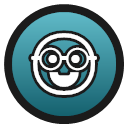
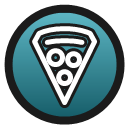
improve josh and tim

diff --git a/SpireBrothersCode/Character/StandIns.cs b/SpireBrothersCode/Character/StandIns.cs
@@ -1,0 +1,89 @@
+using Godot;
+using HarmonyLib;
+using MegaCrit.Sts2.Core.Entities.Players;
+using MegaCrit.Sts2.Core.Nodes.RestSite;
+using MegaCrit.Sts2.Core.Nodes.Rooms;
+using MegaCrit.Sts2.Core.Nodes.Screens.Shops;
+
+namespace SpireBrothers.SpireBrothersCode.Character;
+
+/// <summary>
+/// The shop and rest sites only take a Spine scene per character, so the brothers borrow their vanilla character's
+/// (PlaceholderCharacterModel). These patches keep that scene, so everything it does (thought bubbles, selection,
+/// flipping) still works, but hide its Spine body and stand the brother's own idle animation in its place.
+/// </summary>
+[HarmonyPatch]
+public static class StandIns
+{
+    private const string NodeName = "BrotherStandIn";
+
+    /// <summary>Height in the shop. Combat bodies are 400; tweak if he looks too big or small next to the merchant.</summary>
+    private const float ShopHeight = 400f;
+
+    /// <summary>Rest-site height when the scene has no usable hitbox to measure.</summary>
+    private const float RestSiteHeight = 300f;
+
+    private static readonly AccessTools.FieldRef<NMerchantRoom, List<Player>> Players =
+        AccessTools.FieldRefAccess<NMerchantRoom, List<Player>>("_players");
+
+    private static readonly AccessTools.FieldRef<NMerchantRoom, List<NMerchantCharacter>> PlayerVisuals =
+        AccessTools.FieldRefAccess<NMerchantRoom, List<NMerchantCharacter>>("_playerVisuals");
+
+    // The room builds one character per player, in the same order as its player list.
+    [HarmonyPatch(typeof(NMerchantRoom), nameof(NMerchantRoom._Ready))]
+    [HarmonyPostfix]
+    private static void AfterMerchantRoomReady(NMerchantRoom __instance)
+    {
+        try
+        {
+            var players = Players(__instance);
+            var visuals = PlayerVisuals(__instance);
+            for (int i = 0; i < Math.Min(players.Count, visuals.Count); i++)
+                if (players[i].Character is BrotherCharacter brother) StandIn(visuals[i], brother, ShopHeight);
+        }
+        catch (Exception e)
+        {
+            MainFile.Logger.Error($"Shop stand-in failed: {e}");
+        }
+    }
+
+    [HarmonyPatch(typeof(NRestSiteCharacter), nameof(NRestSiteCharacter._Ready))]
+    [HarmonyPostfix]
+    private static void AfterRestSiteCharacterReady(NRestSiteCharacter __instance)
+    {
+        try
+        {
+            if (__instance.Player?.Character is not BrotherCharacter brother) return;
+            float hitbox = __instance.Hitbox?.Size.Y ?? 0;
+            StandIn(__instance, brother, hitbox > 100 ? hitbox * 0.9f : RestSiteHeight);
+        }
+        catch (Exception e)
+        {
+            MainFile.Logger.Error($"Rest site stand-in failed: {e}");
+        }
+    }
+
+    // Characters on the far side of the campfire are mirrored; mirror ours with them.
+    [HarmonyPatch(typeof(NRestSiteCharacter), nameof(NRestSiteCharacter.FlipX))]
+    [HarmonyPostfix]
+    private static void AfterRestSiteFlip(NRestSiteCharacter __instance)
+    {
+        if (__instance.GetNodeOrNull<Node2D>(NodeName) is not { } sprite) return;
+        sprite.Scale = new Vector2(-sprite.Scale.X, sprite.Scale.Y);
+        sprite.Position = new Vector2(-sprite.Position.X, sprite.Position.Y);
+    }
+
+    private static void StandIn(Node host, BrotherCharacter brother, float height)
+    {
+        var spines = host.GetChildren().OfType<Node2D>().Where(n => n.GetClass() == "SpineSprite").ToList();
+        if (spines.Count == 0 || host.GetNodeOrNull(NodeName) != null) return;
+        if (brother.CreateIdleSprite(height) is not { } sprite) return;
+
+        sprite.Name = NodeName;
+        sprite.Position = spines[0].Position;
+        if (spines[0].Scale.X < 0) sprite.Scale = new Vector2(-sprite.Scale.X, sprite.Scale.Y);
+        foreach (var spine in spines) spine.Visible = false;
+        host.AddChild(sprite);
+        MainFile.Logger.Info($"Stand-in for {brother.Id.Entry} in {host.GetType().Name}: at {sprite.Position}, {height} tall");
+    }
+}

diff --git a/SpireBrothersCode/Mechanics/Archipelago.cs b/SpireBrothersCode/Mechanics/Archipelago.cs
@@ -51,7 +51,7 @@ public static class Archipelago
             if (enemies.Count > 0)
             {
                 var enemy = rng.NextItem(enemies)!;
-                Announce(item, enemy);
+                Announce(item, enemy, owner);
                 await PowerCmd.Apply<WeakPower>(ctx, enemy, 1, owner.Creature, source);
                 await PowerCmd.Apply<VulnerablePower>(ctx, enemy, 1, owner.Creature, source);
                 return;
@@ -62,7 +62,7 @@ public static class Archipelago
         var players = combat.Players.Where(p => p.Creature.IsAlive).Select(p => p.Creature).ToList();
         if (players.Count == 0) return;
         Creature receiver = rng.NextItem(players)!;
-        Announce(item, receiver);
+        Announce(item, receiver, owner);
         switch (item)
         {
             case Item.Filler:
@@ -78,12 +78,19 @@ public static class Archipelago
     }
 
     // A thought bubble over whoever got the item, so everyone can see what was found.
-    private static void Announce(Item item, Creature receiver)
+    // The receiver (or the trapped enemy) says what they got. When it went to someone else, Joshua also says who
+    // he sent it to, so he can tell what his Checks did. Display only, so it never affects co-op sync.
+    private static void Announce(Item item, Creature receiver, Player sender)
     {
         try
         {
             var key = "SPIREBROTHERS-ARCHIPELAGO." + item.ToString().ToLowerInvariant();
             ThinkCmd.Play(new LocString("powers", key), receiver, 1.5);
+            if (receiver == sender.Creature) return;
+            var sent = new LocString("powers", "SPIREBROTHERS-ARCHIPELAGO.sent");
+            sent.Add("Item", new LocString("powers", "SPIREBROTHERS-ARCHIPELAGO.short." + item.ToString().ToLowerInvariant()));
+            sent.Add("Name", receiver.Name);
+            ThinkCmd.Play(sent, sender.Creature, 1.5);
         }
         catch (Exception e)
         {

diff --git a/SpireBrothersCode/Character/BrotherCharacter.cs b/SpireBrothersCode/Character/BrotherCharacter.cs
@@ -96,6 +96,34 @@ public abstract class BrotherCharacter : PlaceholderCharacterModel
         return frames;
     }
 
+    /// <summary>
+    /// A looping idle animation of this brother, feet at the origin, <paramref name="height"/> units tall, for screens
+    /// outside combat (the shop and rest sites; see StandIns). Null if he has no frames/ yet.
+    /// </summary>
+    public AnimatedSprite2D? CreateIdleSprite(float height)
+    {
+        try
+        {
+            if (LoadFrames(out var first) is not { } frames || first == null) return null;
+            float h = first.GetSize().Y;
+            var sprite = new AnimatedSprite2D
+            {
+                SpriteFrames = frames,
+                Autoplay = "idle",
+                Offset = new Vector2(0, -h / 2),
+                Scale = Vector2.One * (height / h),
+                TextureFilter = CanvasItem.TextureFilterEnum.Nearest
+            };
+            sprite.Play("idle");
+            return sprite;
+        }
+        catch (Exception e)
+        {
+            MainFile.Logger.Error($"Couldn't build {ArtFolder}'s idle sprite: {e}");
+            return null;
+        }
+    }
+
     private NCreatureVisuals AnimatedBody(SpriteFrames frames, Texture2D first)
     {
         // Let BaseLib lay out the hitbox and markers from the first frame, then hide that still picture and play

diff --git a/CLAUDE.md b/CLAUDE.md
@@ -67,6 +67,8 @@ Its wiki is the best reference: https://github.com/Alchyr/ModTemplate-StS2/wiki
   The sprite's pivot is moved to the feet and it tweens to -90° on `dead` (back up on `revive`), because the dead frames only slump.
   It also sets the character icon (`icon.png`, falling back to `map_marker.png`, plus `icon_outline.png`): co-op map votes and the
   player list use it, and the top-left icon reuses the placeholder's icon scene with our textures swapped in.
+  Shop and rest sites only take a Spine scene, so `Character/StandIns.cs` keeps the placeholder's scene, hides its
+  SpineSprite, and adds `BrotherCharacter.CreateIdleSprite()` in its place (sizes are constants there; untested in game).
 - `SpireBrothersCode/Powers/`, `SpireBrothersCode/Relics/`, `SpireBrothersCode/Potions/`
 - `SpireBrothersCode/BrotherKeywords.cs`: custom `CardKeyword`s. Logic/Hands/Stratagem auto-insert
   before the card text. Wired/Share/Diligent/Comeback use `AutoKeywordPosition.None` and are

diff --git a/updates.md b/updates.md
@@ -1,0 +1,4 @@
+- in the shop it doesn't show our models, it shows the ones we're based off of
+- let's change daniel's map icon to a pizza slice
+- Tim: chores card showed up with the wrong number I think. he had 3 kids and the buff on the card that increases block. I forget what that buff is called. Can you verify its right?
+- maybe tell Joshua what the other user received when you used Check
